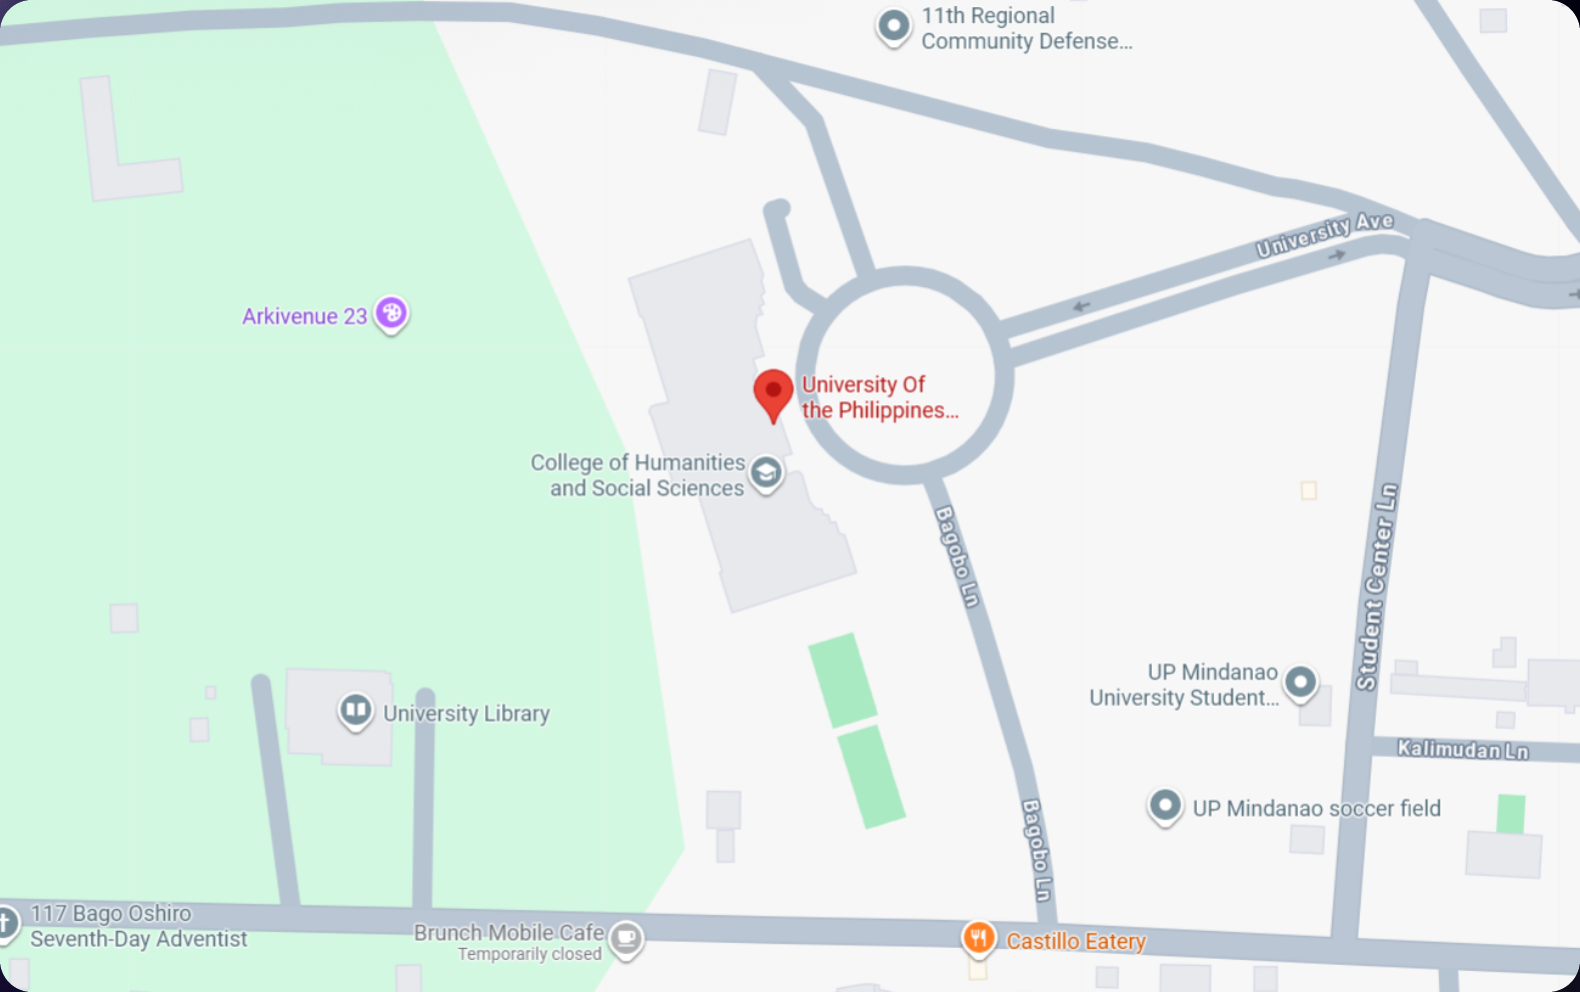
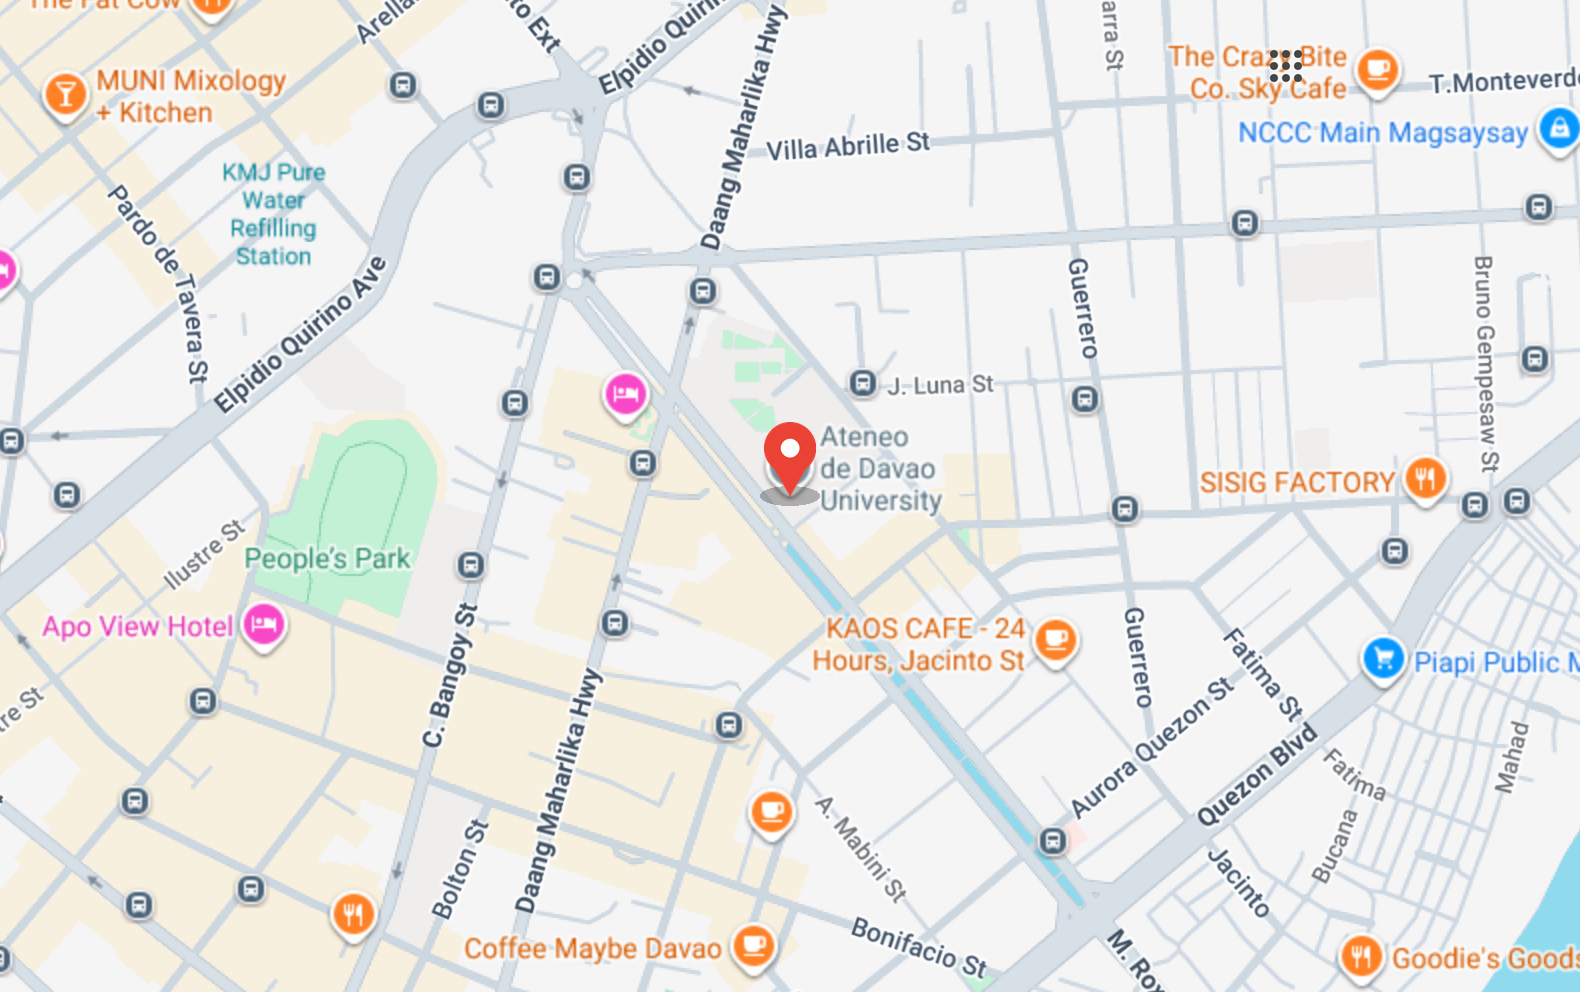
feat(location): venue name, address and map fallback (#37)
* fix(location): drop the nested Container so the gutters match the other sections

Section already renders a Container, so the component's own wrapper doubled the page gutter: content started 116px in at 1440 and 64px at 393 against 68 and 32 everywhere else. Removing it puts the content at 212px in at 1728, 68 at 1440 and 32 at 393, matching the FAQ and the frames. Map ratios unchanged: 1.59 at 1728/1440, 0.97 at 393.

* feat(location): name the full venue

The heading now carries the whole venue line, Bapa Benny Auditorium, Ateneo de Davao University, Davao City, Philippines. The address field is cleared so the text is not repeated, the lorem ipsum description is untouched, and the map query targets the auditorium.

* feat(location): replace the venue map fallback with a capture of the campus

The old fallback was a 1580x992 capture of the campus area. This is the same size, taken from Google Maps on the Ateneo de Davao University place at zoom 17 with the pin on the university, and cropped to exclude the search panel. Rendered only when the interactive map is unavailable.

* feat(location): tighten the venue map fallback to the campus

Cropped the centre 60% of the previous capture and scaled it back to 1580x992, so the fallback reads at campus scale rather than city scale. The pin and the university label sit at the centre of the crop.

* feat(location): render the venue map fallback at the map's own zoom with a marker
[…]

diff --git a/src/data/site.ts b/src/data/site.ts
@@ -24,11 +24,11 @@ export const socials = [
 // falls back to the exported image so a keyless build still renders. mapUrl overrides the default
 // Google Maps link for the venue.
 export const venue = {
-  name: "Ateneo De Davao University",
+  name: "Bapa Benny Auditorium, Ateneo de Davao University, Davao City, Philippines",
   address: "",
   description:
     "Lorem ipsum dolor sit amet consectetur. Ut auctor velit elit commodo ac fames. Consectetur vel nunc quisque tincidunt odio malesuada aliquam sagittis dignissim. Nec gravida suspendisse maecenas nibh hendrerit. Tellus est tincidunt aliquam fermentum etiam vitae eget tristique orci. Egestas enim mauris felis blandit mollis molestie. Tristique feugiat tortor pellentesque egestas semper neque hendrerit",
-  mapQuery: "Ateneo de Davao University, Davao City",
+  mapQuery: "Bapa Benny Auditorium, Ateneo de Davao University, Davao City",
   // Emilio Jacinto St. campus. Wikipedia gives 7°4′20″N 125°36′47″E and a coordinate lookup
   // 7.0731, 125.6128, hence the shared values below.
   mapCenter: { lat: 7.0711276, lng: 125.61342 },
